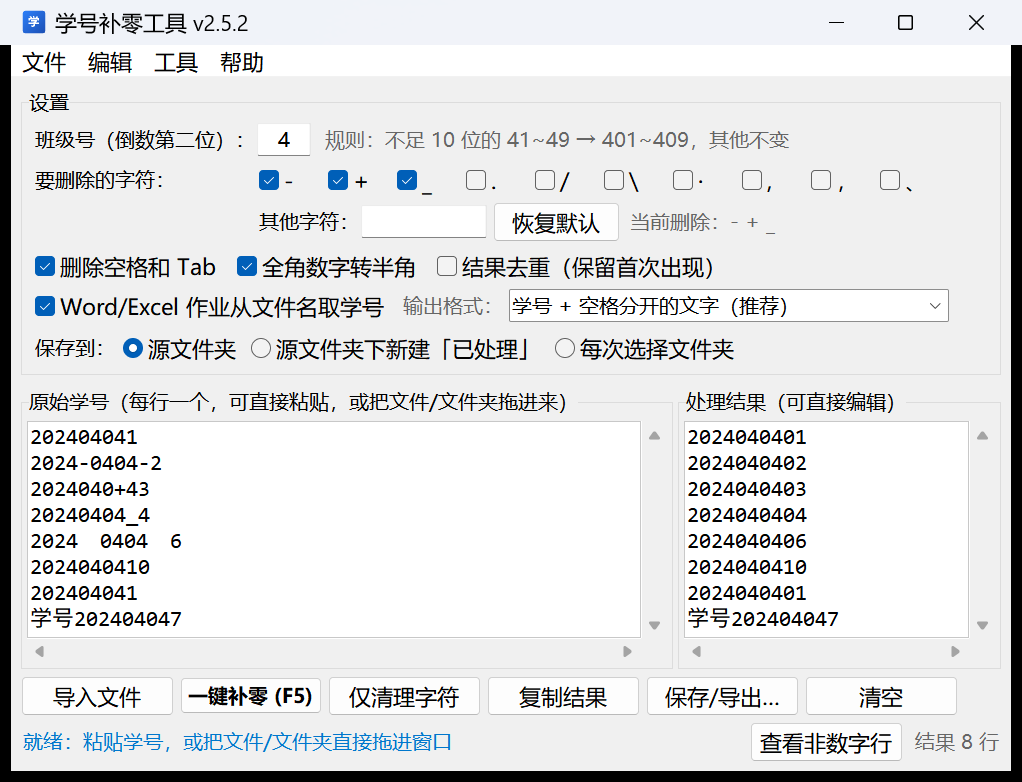
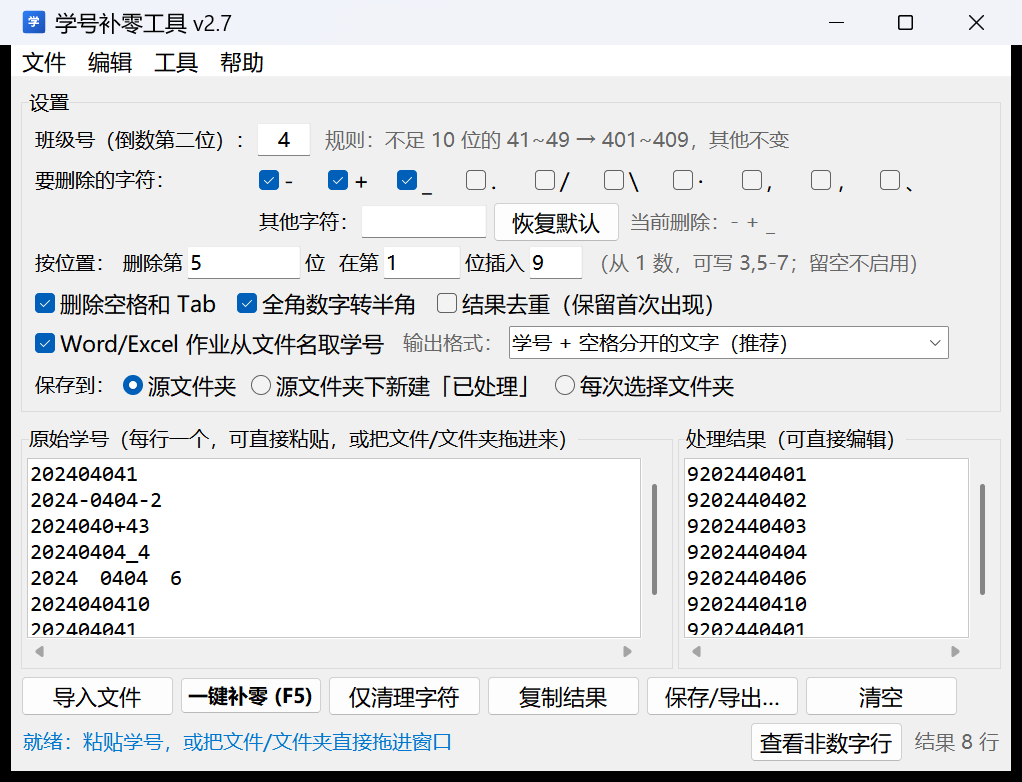
学号补零工具 v2.1

diff --git a/main.py b/main.py
@@ -90,6 +90,9 @@ class App(tk.Tk):
         self.class_var = tk.StringVar(value="4")
         # 常用分隔符用勾选框选，勾不中的可以自己填在“其他字符”里
         self.strip_extra_var = tk.StringVar(value="")
+        self.pos_delete_var = tk.StringVar(value="")
+        self.pos_insert_var = tk.StringVar(value="")
+        self.pos_text_var = tk.StringVar(value="0")
         self.strip_presets = {
             ch: tk.BooleanVar(value=ch in DEFAULT_STRIP_CHARS) for ch in STRIP_PRESETS
         }
@@ -213,9 +216,26 @@ class App(tk.Tk):
         self.strip_hint = ttk.Label(other_row, text="", style="Hint.TLabel")
         self.strip_hint.pack(side="left", padx=(8, 0))
 
+        # 按位置删/插（例如删第 3 位、把 0 插到第 4 位）
+        pos_row = ttk.Frame(box)
+        pos_row.grid(row=3, column=0, columnspan=5, sticky="w", pady=(4, 0))
+        ttk.Label(pos_row, text="按位置：").pack(side="left")
+        ttk.Label(pos_row, text="删除第").pack(side="left", padx=(4, 2))
+        self.pos_del_entry = ttk.Entry(pos_row, textvariable=self.pos_delete_var, width=9)
+        self.pos_del_entry.pack(side="left")
+        ttk.Label(pos_row, text="位").pack(side="left", padx=(2, 10))
+        ttk.Label(pos_row, text="在第").pack(side="left")
+        self.pos_ins_entry = ttk.Entry(pos_row, textvariable=self.pos_insert_var, width=6)
+        self.pos_ins_entry.pack(side="left", padx=(2, 2))
+        ttk.Label(pos_row, text="位插入").pack(side="left")
+        self.pos_text_entry = ttk.Entry(pos_row, textvariable=self.pos_text_var, width=4)
+        self.pos_text_entry.pack(side="left", padx=(2, 4))
+        ttk.Label(pos_row, text="（从 1 数，可写 3,5-7；留空不启用）",
+                  style="Hint.TLabel").pack(side="left")
+
         # 选项单独一行，避免窗口窄时被裁掉
         opt_row = ttk.Frame(box)
-        opt_row.grid(row=3, column=0, columnspan=5, sticky="w", pady=(6, 0))
+        opt_row.grid(row=4, column=0, columnspan=5, sticky="w", pady=(6, 0))
         ttk.Checkbutton(opt_row, text="删除空格和 Tab", variable=self.whitespace_var).pack(
             side="left")
         ttk.Checkbutton(opt_row, text="全角数字转半角", variable=self.halfwidth_var).pack(
@@ -225,7 +245,7 @@ class App(tk.Tk):
 
         # 拖入 Word/Excel 作业时，从文件名里取学号
         name_row = ttk.Frame(box)
-        name_row.grid(row=4, column=0, columnspan=5, sticky="w", pady=(4, 0))
+        name_row.grid(row=5, column=0, columnspan=5, sticky="w", pady=(4, 0))
         ttk.Checkbutton(name_row, text="Word/Excel 作业从文件名取学号",
                         variable=self.from_names_var).pack(side="left")
         ttk.Label(name_row, text="输出格式：", style="Hint.TLabel").pack(side="left", padx=(14, 4))
@@ -236,7 +256,7 @@ class App(tk.Tk):
 
         # 保存位置：默认存回源文件夹
         save_row = ttk.Frame(box)
-        save_row.grid(row=5, column=0, columnspan=5, sticky="w", pady=(6, 0))
+        save_row.grid(row=6, column=0, columnspan=5, sticky="w", pady=(6, 0))
         ttk.Label(save_row, text="保存到：").pack(side="left")
         ttk.Radiobutton(save_row, text="源文件夹", value="source", variable=self.save_mode_var).pack(
             side="left", padx=(4, 10))
@@ -336,6 +356,9 @@ class App(tk.Tk):
         for ch, var in self.strip_presets.items():
             var.set(ch in DEFAULT_STRIP_CHARS)
         self.strip_extra_var.set("")
+        self.pos_delete_var.set("")
+        self.pos_insert_var.set("")
+        self.pos_text_var.set("0")
         self._update_strip_hint()
         self.whitespace_var.set(True)
         self.halfwidth_var.set(True)
@@ -362,6 +385,9 @@ class App(tk.Tk):
         labels = {code: label for code, label in NAME_FORMATS}
         if fmt in labels:
             self.name_format_var.set(labels[fmt])
+        self.pos_delete_var.set(str(cfg.get("pos_delete", "")))
+        self.pos_insert_var.set(str(cfg.get("pos_insert", "")))
+        self.pos_text_var.set(str(cfg.get("pos_text", "0")) or "0")
         if cfg.get("save_mode") in ("source", "subfolder", "choose"):
             self.save_mode_var.set(cfg["save_mode"])
 
@@ -371,6 +397,9 @@ class App(tk.Tk):
             "strip_chars": self._strip_chars(),
             "strip_presets": [ch for ch, var in self.strip_presets.items() if var.get()],
             "strip_extra": self.strip_extra_var.get(),
+            "pos_delete": self.pos_delete_var.get(),
+            "pos_insert": self.pos_insert_var.get(),
+            "pos_text": self.pos_text_var.get(),
             "remove_whitespace": self.whitespace_var.get(),
             "halfwidth": self.halfwidth_var.get(),
             "dedupe": self.dedupe_var.get(),
@@ -425,6 +454,9 @@ class App(tk.Tk):
             "halfwidth": self.halfwidth_var.get(),
             "remove_whitespace": self.whitespace_var.get(),
             "dedupe": self.dedupe_var.get(),
+            "pos_delete": self.pos_delete_var.get(),
+            "pos_insert": self.pos_insert_var.get(),
+            "pos_text": self.pos_text_var.get() or "0",
         }
 
     def do_fix(self):
@@ -806,11 +838,13 @@ class App(tk.Tk):
             "3. 需要时修改班级号（默认 4）；已经够 10 位的学号不会被重复补零。\n"
             "4. 「要删除的字符」用勾选框选要去掉的符号（默认 - + _），"
             "不在列表里的填到「其他字符」里；勾「删除空格/Tab」再去掉空格和制表符。\n"
-            "5. 点「一键补零」：先删字符，再按规则补 0；"
+            "5. 「按位置」可以按第几位删字符、或把字符插到第几位（从 1 数，"
+            "支持 3,5-7 这种写法，留空就不启用；插在第 10 位等于加到末尾）。\n"
+            "6. 点「一键补零」：先删字符、再按位置增删，最后按规则补 0；"
             "若只想删字符，点「仅清理字符」。\n"
-            "6. 拖入作业文件夹时，学号取自文件名，后面的姓名/作业名按「输出格式」保留。\n"
-            "7. 「保存到」默认存回源文件夹；也可建「已处理」子文件夹或每次选择。\n"
-            "8. 右侧结果可复制或保存（Ctrl+Shift+C / Ctrl+S）。\n\n"
+            "7. 拖入作业文件夹时，学号取自文件名，后面的姓名/作业名按「输出格式」保留。\n"
+            "8. 「保存到」默认存回源文件夹；也可建「已处理」子文件夹或每次选择。\n"
+            "9. 右侧结果可复制或保存（Ctrl+Shift+C / Ctrl+S）。\n\n"
             "示例：2024-0404-1 → 202404041 → 2024040401")
 
     def show_about(self):

diff --git a/student_id_core.py b/student_id_core.py
@@ -29,7 +29,7 @@ import time
 from dataclasses import dataclass, field
 
 #: 版本号（界面标题和“关于”里显示）
-APP_VERSION = "2.6"
+APP_VERSION = "2.7"
 
 #: 默认要删除的字符
 DEFAULT_STRIP_CHARS = "-+_"
@@ -107,6 +107,63 @@ def clean_line(
 FULL_ID_LENGTH = 10
 
 
+_POSITION_SEP = re.compile(r"[\s,，、;；]+")
+_POSITION_RANGE = re.compile(r"^(\d+)\s*[-~－—]\s*(\d+)$")
+
+
+def parse_positions(spec: str) -> list[int]:
+    """把 ``"3,5-7"`` 这类写法解析成位置列表 ``[3, 5, 6, 7]``（从 1 开始）。
+
+    写错的片段直接忽略；倒着写的范围（7-5）会自动对调。
+    """
+    out: list[int] = []
+    for token in _POSITION_SEP.split(str(spec or "").strip()):
+        if not token:
+            continue
+        match = _POSITION_RANGE.match(token)
+        if match:
+            start, end = int(match.group(1)), int(match.group(2))
+            if start > end:
+                start, end = end, start
+            out.extend(range(start, end + 1))
+            continue
+        if token.isdigit():
+            out.append(int(token))
+    seen, unique = set(), []
+    for pos in out:
+        if pos >= 1 and pos not in seen:
+            seen.add(pos)
+            out_pos = pos
+            unique.append(out_pos)
+    return unique
+
+
+def edit_positions(text: str, *, delete=(),
+                   insert=(), insert_text: str = "0") -> str:
+    """按位置删/插字符（位置从 1 开始，超出长度的忽略）。
+
+    ``delete`` 里列出的位置会被删掉；``insert`` 里的位置会在该字符**前面**插入
+    ``insert_text``（写 ``len+1`` 表示追加到末尾）。两个参数都接受
+    ``parse_positions`` 解析出来的列表。
+    """
+    if not text:
+        return ""
+    drop = set(int(p) for p in delete)
+    add = set(int(p) for p in insert)
+    if not drop and not add:
+        return text
+    pieces: list[str] = []
+    for index, char in enumerate(text, start=1):
+        if index in add:
+            pieces.append(insert_text)
+        if index in drop:
+            continue
+        pieces.append(char)
+    if (len(text) + 1) in add:
+        pieces.append(insert_text)
+    return "".join(pieces)
+
+
 def fix_student_id(s: str, class_no: str = "4") -> str:
     """按规则修复单个学号；不符合规则时原样返回。
 
@@ -177,6 +234,9 @@ def process_text(
     remove_whitespace: bool = True,
     dedupe: bool = False,
     pad: bool = True,
+    pos_delete: str = "",
+    pos_insert: str = "",
+    pos_text: str = "0",
 ) -> ProcessResult:
     """处理整段文本（每行一个学号）。
 
@@ -199,6 +259,14 @@ def process_text(
         )
         result.chars_removed += removed
 
+        if pos_delete or pos_insert:
+            cleaned = edit_positions(
+                cleaned,
+                delete=parse_positions(pos_delete),
+                insert=parse_positions(pos_insert),
+                insert_text=pos_text if pos_text else "0",
+            )
+
         if not cleaned:
             result.emptied += 1
             continue
@@ -211,6 +279,15 @@ def process_text(
             original = remove_invisible((raw or "").strip())
             if halfwidth:
                 original = normalize_width(original)
+            if pos_delete or pos_insert:
+                # 「202404041 张三」这类行：按位置增删也作用在整行上
+                original = edit_positions(
+                    original,
+                    delete=parse_positions(pos_delete),
+                    insert=parse_positions(pos_insert),
+                    insert_text=pos_text if pos_text else "0",
+                )
+                cleaned = original
             final = rewrite_leading_id(original, class_no) if pad else None
             if final is None:
                 result.invalid.append((lineno, cleaned))

diff --git a/tests/test_student_id_core.py b/tests/test_student_id_core.py
@@ -12,7 +12,9 @@ import unittest
 sys.path.insert(0, os.path.dirname(os.path.dirname(os.path.abspath(__file__))))
 
 from student_id_core import (
+    edit_positions,
     export_files,
+    parse_positions,
     plan_renames,  # noqa: E402
     DEFAULT_STRIP_CHARS,
     NAME_FORMAT_KEEP,
@@ -526,3 +528,41 @@ class ExportFailureTest(unittest.TestCase):
         os.makedirs(os.path.join(out, "2517970408 何金森 作业一.doc"))
         done = export_files([(self.src, "2517970408 何金森 作业一.doc")], out)
         self.assertEqual(os.path.basename(done[0][1]), "2517970408 何金森 作业一 (2).doc")
+
+
+class PositionEditTest(unittest.TestCase):
+    """按位置删字符 / 插字符。"""
+
+    def test_parse_simple_and_ranges(self):
+        self.assertEqual(parse_positions("3,5-7"), [3, 5, 6, 7])
+        self.assertEqual(parse_positions("3 5 7"), [3, 5, 7])
+        self.assertEqual(parse_positions("7-5"), [5, 6, 7])
+        self.assertEqual(parse_positions("3,,3,1"), [3, 1])
+        self.assertEqual(parse_positions("abc,-,0"), [])
+
+    def test_delete_positions(self):
+        self.assertEqual(edit_positions("2024-0404-1", delete=[5]), "20240404-1")
+        self.assertEqual(edit_positions("202404041", delete=[1, 2]), "2404041")
+        self.assertEqual(edit_positions("202404041", delete=[99]), "202404041")
+
+    def test_insert_positions(self):
+        self.assertEqual(
+            edit_positions("202404041", insert=[4], insert_text="0"), "2020404041")
+        self.assertEqual(
+            edit_positions("202404041", insert=[10], insert_text="X"), "202404041X")
+        self.assertEqual(edit_positions("202404041", insert=[1], insert_text="9"),
+                         "9202404041")
+
+    def test_empty_text(self):
+        self.assertEqual(edit_positions("", delete=[1], insert=[1]), "")
+
+    def test_process_text_applies_positions_before_padding(self):
+        # 先清理成 202404041，删掉第 5 位（0）后是 20244041，再补零成 202440401
+        result = process_text("2024-0404-1", pos_delete="5")
+        self.assertEqual(result.lines, ["202440401"])
+        result = process_text("202404041", pos_insert="10", pos_text="X")
+        self.assertEqual(result.lines[0][-1], "X")
+
+    def test_invalid_position_spec_is_ignored(self):
+        result = process_text("2024-0404-1", pos_delete="abc")
+        self.assertEqual(result.lines, ["2024040401"])

diff --git a/tests/test_gui_smoke.py b/tests/test_gui_smoke.py
@@ -207,6 +207,37 @@ if __name__ == "__main__":
     unittest.main()
 
 
+class PositionSettingsTest(unittest.TestCase):
+    """设置区的「按位置」两个输入框要能影响处理结果。"""
+
+    @classmethod
+    def setUpClass(cls):
+        try:
+            cls.app = app_module.App()
+        except tk.TclError:
+            raise unittest.SkipTest("没有可用的 Tk 显示")
+        cls.app.withdraw()
+        cls.app.on_close = lambda *a, **k: None
+        cls.app.drop_target.close()
+
+    @classmethod
+    def tearDownClass(cls):
+        cls.app.destroy()
+
+    def tearDown(self):
+        self.app.pos_delete_var.set("")
+        self.app.pos_insert_var.set("")
+        self.app.pos_text_var.set("0")
+
+    def test_position_entries_apply(self):
+        self.app.pos_delete_var.set("5")
+        self.app.pos_insert_var.set("1")
+        self.app.pos_text_var.set("9")
+        self.app.class_var.set("4")
+        self.app._run("2024-0404-1", pad=True, **self.app._read_options(need_class=True))
+        self.assertEqual(self.app.out_text.get("1.0", "end-1c"), "9202440401")
+
+
 class ExportFlowTest(unittest.TestCase):
     """“保存/导出”对话框与导出重命名后的文件。"""
 

diff --git a/README.md b/README.md
@@ -56,6 +56,25 @@
 6. 纯数字的行按规则补 0；不是数字的行**原样保留**在结果里，并在状态栏提示行数，
    点「查看非数字行」可以看到是第几行。
 
+### 按位置删 / 插字符
+
+有些学号不是“多了符号”而是“某一位多了/少了东西”，用「设置 → 按位置」：
+
+| 输入 | 含义 |
+| --- | --- |
+| 删除第 `3` 位 | 只删第 3 个字符 |
+| 删除第 `3,5-7` 位 | 删第 3、5、6、7 位（可混写，倒着写 `7-5` 也对） |
+| 在第 `4` 位插入 `0` | 在第 4 个字符**前面**插一个 `0`；`10` 表示末尾追加 |
+
+位置**从 1 开始数**，且是在“删完字符之后”的文本上算（先清理、再按位置、最后补零）：
+
+```
+2024-0404-1   --删除第5位-->  20244041  --补零-->  202440401
+202404041     --第4位插入0--> 2020404041
+```
+
+留空表示不启用；点「恢复默认」会一起清空。
+
 两个按钮的区别：
 
 - **一键补零**：先清理字符，再补 0；
